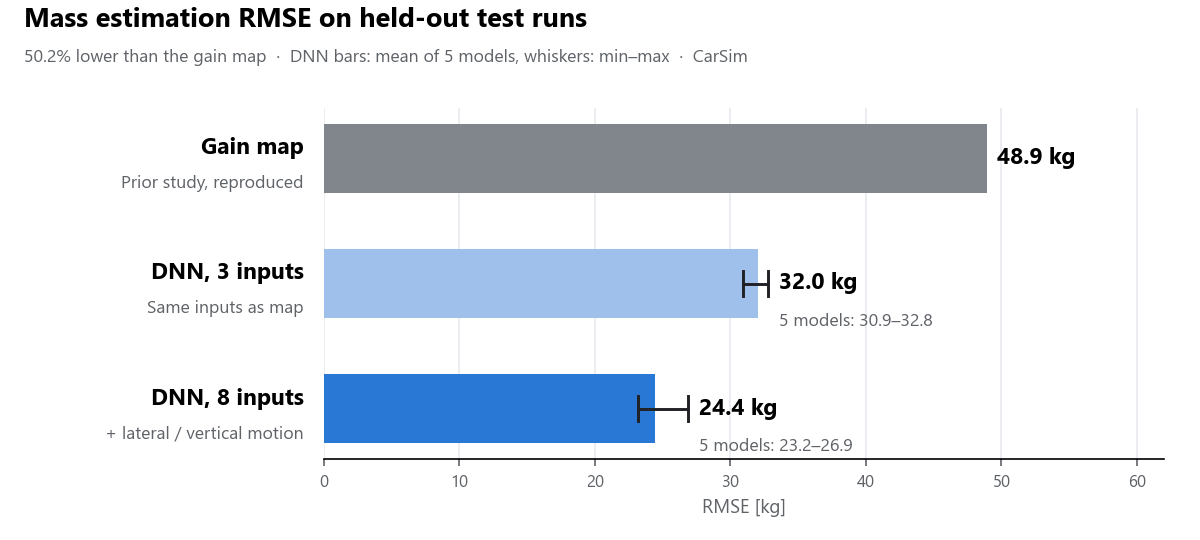
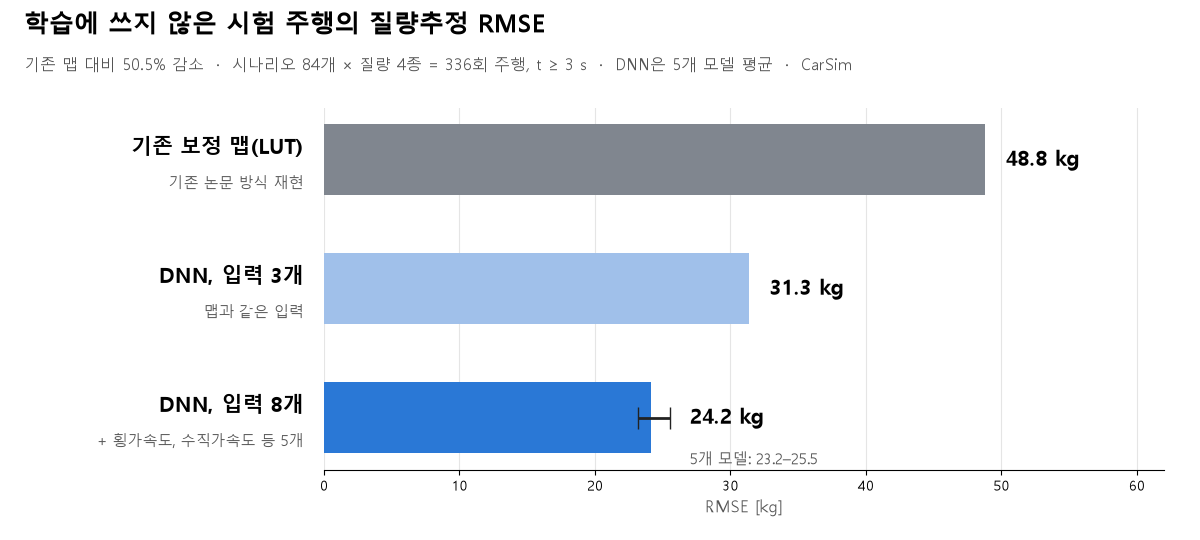
docs: 질량추정 수치를 논문 최신본 기준으로 갱신
- RMSE 48.9/32.0/24.4 kg → 48.8/31.3/24.2 kg (50.5% 감소, 시나리오 84개 × 질량 4종)
- 횡·수직가속도 보정 서술을 실제 최종 방식(보정 없는 센서값, 수직은 중력만 제거)으로 수정
- 입력 처리 비교(검증 주행 298개) 결과 추가, 그래프 다시 그림

diff --git a/projects/Vehicle-Mass-Estimation/README.md b/projects/Vehicle-Mass-Estimation/README.md
@@ -6,17 +6,19 @@
 
 - **담당:** 기존 추정기 재현, 주행 데이터 설계, DNN 학습과 비교를 맡았습니다.
 - **문제 → 판단:** 기존 보정 맵은 선회와 노면 기복을 구분하지 못했습니다. 그래서 차체의 횡·수직 운동 신호를 DNN 입력에 더했습니다.
-- **최종 평가:** 학습과 모델 선택에 쓰지 않은 주행에서 질량추정 오차(RMSE)를 기존 맵보다 **50.2%** 낮췄습니다(**48.9 → 24.4 kg**).
+- **최종 평가:** 학습과 모델 선택에 쓰지 않은 시험 시나리오 84개를 질량 4종으로 주행한 336회에서 질량추정 오차(RMSE)를 기존 맵보다 **50.5%** 낮췄습니다(**48.8 → 24.2 kg**).
 
 [English](#english-overview)
 
-![최종 평가 주행의 질량추정 RMSE. 기존 보정 맵 48.9 kg, 같은 입력 3개 DNN 32.0 kg, 입력 8개 DNN 24.4 kg. DNN은 5개 모델 평균이고, 범위는 30.9–32.8 kg와 23.2–26.9 kg](figures/rmse-comparison.png)
+![최종 평가 주행의 질량추정 RMSE. 기존 보정 맵 48.8 kg, 같은 입력 3개 DNN 31.3 kg, 입력 8개 DNN 24.2 kg. DNN은 5개 모델 평균이고, 8입력 모델별 범위는 23.2–25.5 kg](figures/rmse-comparison.png)
 
 ## 무엇을 바꿨는가
 
 **1. 추정기와 센서 신호부터 확인**
 
-AI 학습에 앞서 추정기의 물리 모델과 센서 신호의 관계를 먼저 확인했습니다. CarSim의 피치·롤 응답을 분석해 가속도 보정을 종·횡·수직 방향으로 확장했고, 센서 신호의 의미와 단위, 부호를 확인해 추정기 입력을 구성했습니다.
+AI 학습에 앞서 추정기의 물리 모델과 센서 신호의 관계를 먼저 확인했습니다. 종가속도의 피치 보상 모델에 기준 피치를 더해 CarSim 주행에서 다시 식별했고, 센서 신호의 의미와 단위, 부호를 확인해 추정기 입력을 구성했습니다.
+
+횡가속도와 수직가속도는 처음에 피치·롤로 정밀하게 보정한 값을 넣으려 했습니다. 보정값, 중력만 뺀 센서값, 순수 센서값을 각각 학습해 비교해 보니 전체 오차는 비슷했고, 주행 후반 25% 구간에서는 중력만 뺀 센서값의 오차가 가장 작았습니다(검증 주행 298개, 12.5 / 11.2 / 14.5 kg). 그래서 최종 모델에는 보정 없이 센서값을 쓰고, 수직가속도는 중력만 뺐습니다.
 
 **2. 주행 조건 설계와 데이터 분리**
 
@@ -28,17 +30,17 @@ AI 학습에 앞서 추정기의 물리 모델과 센서 신호의 관계를 먼
 
 | 방식 | 입력 | 최종 평가 RMSE |
 | --- | --- | ---: |
-| 기존 보정 맵 (기존 논문 방식 재현) | 기준 | 48.9 kg |
-| DNN, 입력 3개 | 맵과 같은 입력 | 32.0 kg |
-| DNN, 입력 8개 | + 차체 횡·수직 운동 신호 | **24.4 kg** |
+| 기존 보정 맵 (기존 논문 방식 재현) | 기준 | 48.8 kg |
+| DNN, 입력 3개 | 맵과 같은 입력 | 31.3 kg |
+| DNN, 입력 8개 | + 횡가속도, 수직가속도, 휠속, 조향각, 피치 각속도 | **24.2 kg** |
 
 조건별로 오차를 나눠 보니, 맵은 노면 기복과 복합 주행에서 약했습니다. 그래서 이를 반영할 수 있도록 횡·수직 운동 신호를 입력에 더했습니다.
 
 ## 검증 방법
 
 - 검증 주행에서 고른 모델을 바꾸지 않고 그대로 최종 평가에 적용했습니다.
-- 초기값이 다른 5개 모델에서 모두 8입력이 3입력보다 오차가 작았습니다(23.2–26.9 kg vs 30.9–32.8 kg, 두 범위가 겹치지 않음).
-- RMSE는 초기 추정값 1,600 kg에서 시작해, 실제 질량 4가지의 최종 평가 주행에서 계산했습니다. 모델·질량·주행 조건에 같은 가중치를 두고 평균했습니다.
+- 초기값이 다른 5개 모델의 8입력 오차는 23.2–25.5 kg으로, 모두 3입력 평균(31.3 kg)보다 작았습니다.
+- RMSE는 초기 추정값 1,600 kg에서 시작해, 실제 질량 4가지의 최종 평가 주행에서 출발 3초 이후 구간으로 계산했습니다. 모델·질량·주행 조건에 같은 가중치를 두고 평균했습니다. 데이터는 시나리오 555개를 학습 322개, 검증 149개, 시험 84개로 나눴습니다.
 - Baseline은 기존 논문의 보정 맵을 같은 주행 데이터에 재현해 평가한 값입니다. 논문에 실린 수치와는 별개입니다.
 - 반복 계산 병목을 고쳐 학습 실행 속도를 6.23배 높였습니다. 기준 구현을 먼저 만들어 두고, 빠르게 바꾼 뒤에도 결과가 같은지 대조했습니다.
 
@@ -53,9 +55,9 @@ AI 학습에 앞서 추정기의 물리 모델과 센서 신호의 관계를 먼
 
 Undergraduate research at the Vehicle Systems and Control Laboratory (VSCL), KOREATECH, since August 2026.
 
-I reproduced a physics-based vehicle mass estimator in Python using CarSim data and extended its tilt correction to the longitudinal, lateral and vertical axes after checking pitch and roll responses. I designed driving scenarios (grades, cornering, lane changes, stop-and-go) and split the data into training, validation and final test sets from the start.
+I reproduced a physics-based vehicle mass estimator in Python using CarSim data and re-identified the pitch compensation of the longitudinal acceleration. For the added lateral and vertical accelerations I compared precisely compensated values, gravity-removed sensor values and raw sensor values; overall error was similar, and the gravity-removed sensor values gave the lowest error in the last 25% of the drives, so the final model uses uncompensated sensor values. I designed driving scenarios (grades, cornering, lane changes, stop-and-go) and split the data into training, validation and final test sets from the start.
 
-I replaced the baseline's hand-tuned correction map with a DNN trained in PyTorch. Because the map could not distinguish cornering and road undulation, I added the vehicle body's lateral and vertical motion signals as inputs. On test drives kept out of training and model selection, RMSE dropped by 50.2% compared with the map (48.9 → 24.4 kg). A DNN using the same three inputs as the map reached 32.0 kg. Across five models with different initializations, the eight-input DNN was better in every case (23.2–26.9 vs 30.9–32.8 kg).
+I replaced the baseline's hand-tuned correction map with a DNN trained in PyTorch. Because the map could not distinguish cornering and road undulation, I added the vehicle body's lateral and vertical motion signals as inputs. On 336 test drives (84 held-out scenarios × 4 vehicle masses), RMSE dropped by 50.5% compared with the map (48.8 → 24.2 kg). A DNN using the same three inputs as the map reached 31.3 kg. Across five models with different initializations, the eight-input DNN ranged from 23.2 to 25.5 kg.
 
 Research code, data and the manuscript are not included; this page shows results only. All results come from CarSim simulations, not vehicle tests.
 

diff --git a/README.md b/README.md
@@ -11,14 +11,14 @@ PLC로 실물 설비를 제어하고 ROS2로 로봇 인터페이스를 연동했
 - **[PLC · MPS 자동 적재](projects/PLC-MPS-Automation/README.md)** — 개인 프로젝트. 각 동작의 완료 조건에 맞춰 시퀀스를 다시 구성했습니다. 실물 설비에서 순차·지그재그 방식으로 각각 8개를 적재했고, 중단 후에도 기존 상태를 유지한 채 작업을 재개했습니다.
 - **[EPS · ROS2 로봇 인터페이스 연결](projects/eps-mirror-node/README.md)** — 5인 국제팀에서 ROS2 환경을 구성하고 Kinova 궤적의 변환·분배를 담당했습니다. 메시지 안의 관절명을 각 환경에 맞춰 바꾼 뒤, Gazebo 결합 모델과 실물 Kinova 팔에서 계획한 궤적이 실행되는지 검증했습니다.
 - **[LKS · 제어 구조 비교](projects/LKS-Control-Optimization/README.md)** — 추종오차와 조향 입력을 함께 비교한 개인 시뮬레이션 프로젝트입니다. 적분항을 추가했을 때 곡선 구간의 추종오차가 오히려 더 커졌습니다.
-- **[VSCL · 차량 질량추정](projects/Vehicle-Mass-Estimation/README.md)** — 진행 중인 학부연구입니다. 기존 보정 맵을 DNN으로 바꾸고 차체의 횡·수직 운동 신호를 입력에 더해, 학습에 쓰지 않은 주행에서 질량추정 오차를 50.2% 낮췄습니다(48.9 → 24.4 kg).
+- **[VSCL · 차량 질량추정](projects/Vehicle-Mass-Estimation/README.md)** — 진행 중인 학부연구입니다. 기존 보정 맵을 DNN으로 바꾸고 횡가속도와 수직가속도 등을 입력에 더해, 학습에 쓰지 않은 주행에서 질량추정 오차를 50.5% 낮췄습니다(48.8 → 24.2 kg).
 
 ENIT European Project Semester (2025.09–12) · DGIST 하계 연구인턴 (2026.07)
 
 <details>
 <summary>English overview</summary>
 
-I study mechanical engineering at KOREATECH. I worked on PLC sequences for a physical training MPS, ROS2 interfaces for a Kinova arm in a five-person EPS team, and steering-control analysis in MATLAB/Simulink. During my DGIST internship, I designed parts, assembled printed parts and checked how they worked. In my current undergraduate research, I replaced the hand-tuned correction map of a vehicle mass estimator with a DNN and cut estimation error by 50.2% on CarSim test runs kept out of training.
+I study mechanical engineering at KOREATECH. I worked on PLC sequences for a physical training MPS, ROS2 interfaces for a Kinova arm in a five-person EPS team, and steering-control analysis in MATLAB/Simulink. During my DGIST internship, I designed parts, assembled printed parts and checked how they worked. In my current undergraduate research, I replaced the hand-tuned correction map of a vehicle mass estimator with a DNN and cut estimation error by 50.5% on CarSim test runs kept out of training.
 
 Each project briefly explains what I worked on, what I changed, and what I checked. A short English overview is included with the Korean text.
 
